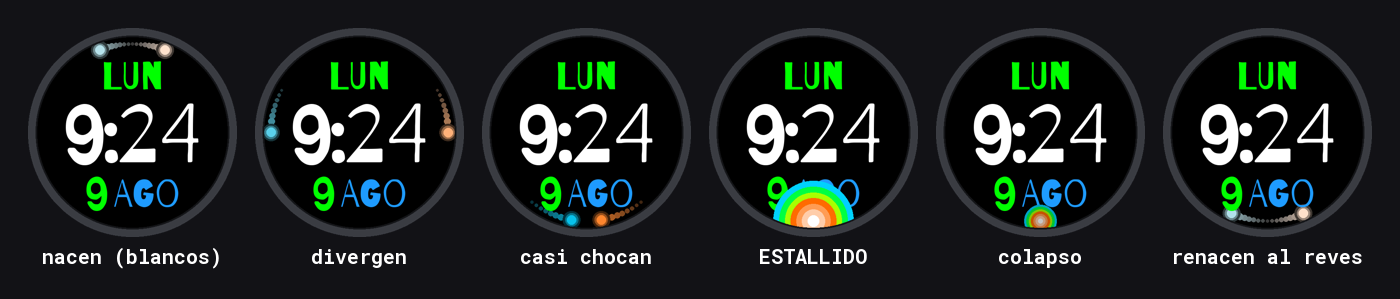
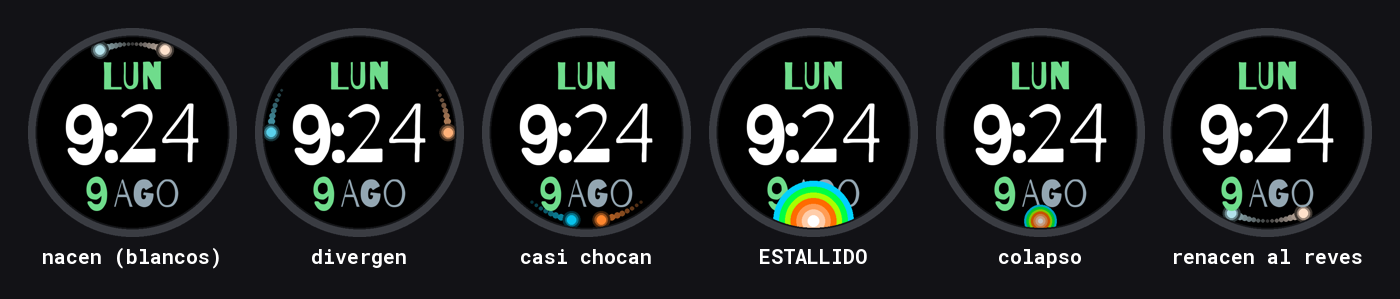
Pulso, PulsoXL: settle the text on a three-hue palette
Orange and cyan belong to the orbs, green to the text — 80 degrees apart, so the
whole face runs on one regular triad. Saturated colour belongs to what moves, so
the text drops its saturation and takes a brightness hierarchy instead: white
time, mint weekday and day number, blue-grey month.

Pure green sat at 72% luminance and competed with the white time; mint is
brighter at 75% yet reads as secondary, because saturation was what made it
shout. The month was the dimmest text on the face at 53% and rises to 64%, and
goes neutral so no fourth hue fights the cool orb passing over it.

Claude-Session: https://claude.ai/code/session_01Spqi8874cLT5cy9qNW1EXh

diff --git a/Pulso/preview/preview_render.py b/Pulso/preview/preview_render.py
@@ -14,7 +14,9 @@ OUT = os.path.join(_HERE, "preview.png")
 OUT_GIF = os.path.join(_HERE, "preview.gif")
 
 S = 454
-GREEN = (0, 255, 0); BLUE = (30, 155, 255); WHITE = (255, 255, 255)
+# Triada: naranja y cian son de los orbes, verde del texto (80 grados de
+# separacion entre los tres). El mes se retira a un gris azulado neutro.
+GREEN = (0x6F, 0xDC, 0x8C); BLUE = (0x93, 0xA6, 0xB2); WHITE = (255, 255, 255)
 Y_WDAY, Y_TIME, Y_DATE = 0.200, 0.500, 0.815
 
 # Mismos valores que el .mc

diff --git a/PulsoXL/preview/preview_render.py b/PulsoXL/preview/preview_render.py
@@ -15,7 +15,9 @@ OUT = os.path.join(_HERE, "preview.png")
 OUT_GIF = os.path.join(_HERE, "preview.gif")
 
 S = 454
-GREEN = (0, 255, 0); BLUE = (30, 155, 255); WHITE = (255, 255, 255)
+# Triada: naranja y cian son de los orbes, verde del texto (80 grados de
+# separacion entre los tres). El mes se retira a un gris azulado neutro.
+GREEN = (0x6F, 0xDC, 0x8C); BLUE = (0x93, 0xA6, 0xB2); WHITE = (255, 255, 255)
 Y_WDAY, Y_TIME, Y_DATE = 0.200, 0.500, 0.815
 
 # Mismos valores que el .mc

diff --git a/PulsoXL/README.md b/PulsoXL/README.md
@@ -69,3 +69,35 @@ dos orbes que acababan de chocar, y su brillo daba tumbos —del **13,3%** del
 anillo violeta al **82,7%** del amarillo—, así que no crecía: parpadeaba. Ahora
 son los colores de los propios orbes fundiéndose: **frío por fuera, cálido
 después y núcleo blanco**.
+
+## Los colores del texto
+
+La esfera entera se apoya en **tres tonos y nada más**: naranja (30°) y cian
+(190°) los ponen los orbes, y verde (110°) el texto. Están separados **80°
+exactos**, así que forman una tríada regular.
+
+El principio: **el color saturado pertenece a lo que se mueve.** El texto está
+quieto, así que va con la saturación baja y una jerarquía clara de brillo.
+
+| | Antes | Ahora | Luminancia |
+|---|---|---|---|
+| Hora | `#FFFFFF` | `#FFFFFF` | 100% |
+| Día de la semana | `#00FF00` | `#6FDC8C` menta | 72% → **75%** |
+| Número del día | `#00FF00` | `#6FDC8C` menta | 72% → **75%** |
+| Mes | `#1E9BFF` | `#93A6B2` gris azulado | 53% → **64%** |
+| Hora en Always-On | `#00FF00` | `#6FDC8C` menta | 72% → **75%** |
+
+Dos cosas que salieron de medir y no de mirar:
+
+- El verde puro estaba al **72%**, casi tan brillante como la hora en blanco:
+  competía con ella en vez de acompañarla. El menta es **más luminoso** (75%) y
+  aun así se lee como secundario, porque lo que lo hacía gritar era la
+  saturación, no el brillo.
+- El mes era **el texto más apagado de la esfera** (53%). Ahora sube a 64%.
+
+El mes se retira a un **neutro** en vez de mantener un azul, para no meter un
+cuarto tono que pelee con el cian del orbe frío cuando este le pasa por delante.
+
+Los colores del mes y del Always-On viven en `resources/settings/properties.xml`
+(`AccentColor` y `AodColor`), así que se pueden cambiar desde Garmin Connect sin
+recompilar.

diff --git a/README.md b/README.md
@@ -20,7 +20,8 @@ instalarlas todas a la vez en el reloj.
 
 Todas comparten el mismo diseño (día de la semana arriba en verde, hora grande
 en blanco, día del mes verde + mes azul abajo) y usan **avance tabular** en las
-cifras para que la hora no se desplace al cambiar de minuto.
+cifras para que la hora no se desplace al cambiar de minuto. `Pulso/` y
+`PulsoXL/` llevan una paleta revisada, distinta de estas ocho.
 
 ## Variantes "Rosa de los vientos"
 
@@ -79,6 +80,12 @@ propósito, para que no pase desapercibido. Después colapsa y los orbes renacen
 En **`PulsoXL/`** todo eso es igual, pero además el **radio del orbe** crece con
 las pulsaciones: 9 px en reposo, 29 px a 160 ppm. La estela, que se mide en
 múltiplos de ese radio, pasa de hilo fino a brochazo.
+
+Las dos usan una **paleta de tres tonos**: naranja (30°) y cian (190°) para los
+orbes, verde (110°) para el texto — separados 80° exactos. El color saturado es
+de lo que se mueve, así que el texto va con la saturación baja y una jerarquía
+de brillo: hora blanca 100%, día de la semana y número en menta `#6FDC8C` 75%,
+mes en gris azulado `#93A6B2` 64%. Detalle en `PulsoXL/README.md`.
 
 Lee el pulso con el permiso `SensorHistory` (el permiso `Sensor` **no es válido
 en una esfera**: solo lo admiten apps y widgets). Primero intenta el pulso en
